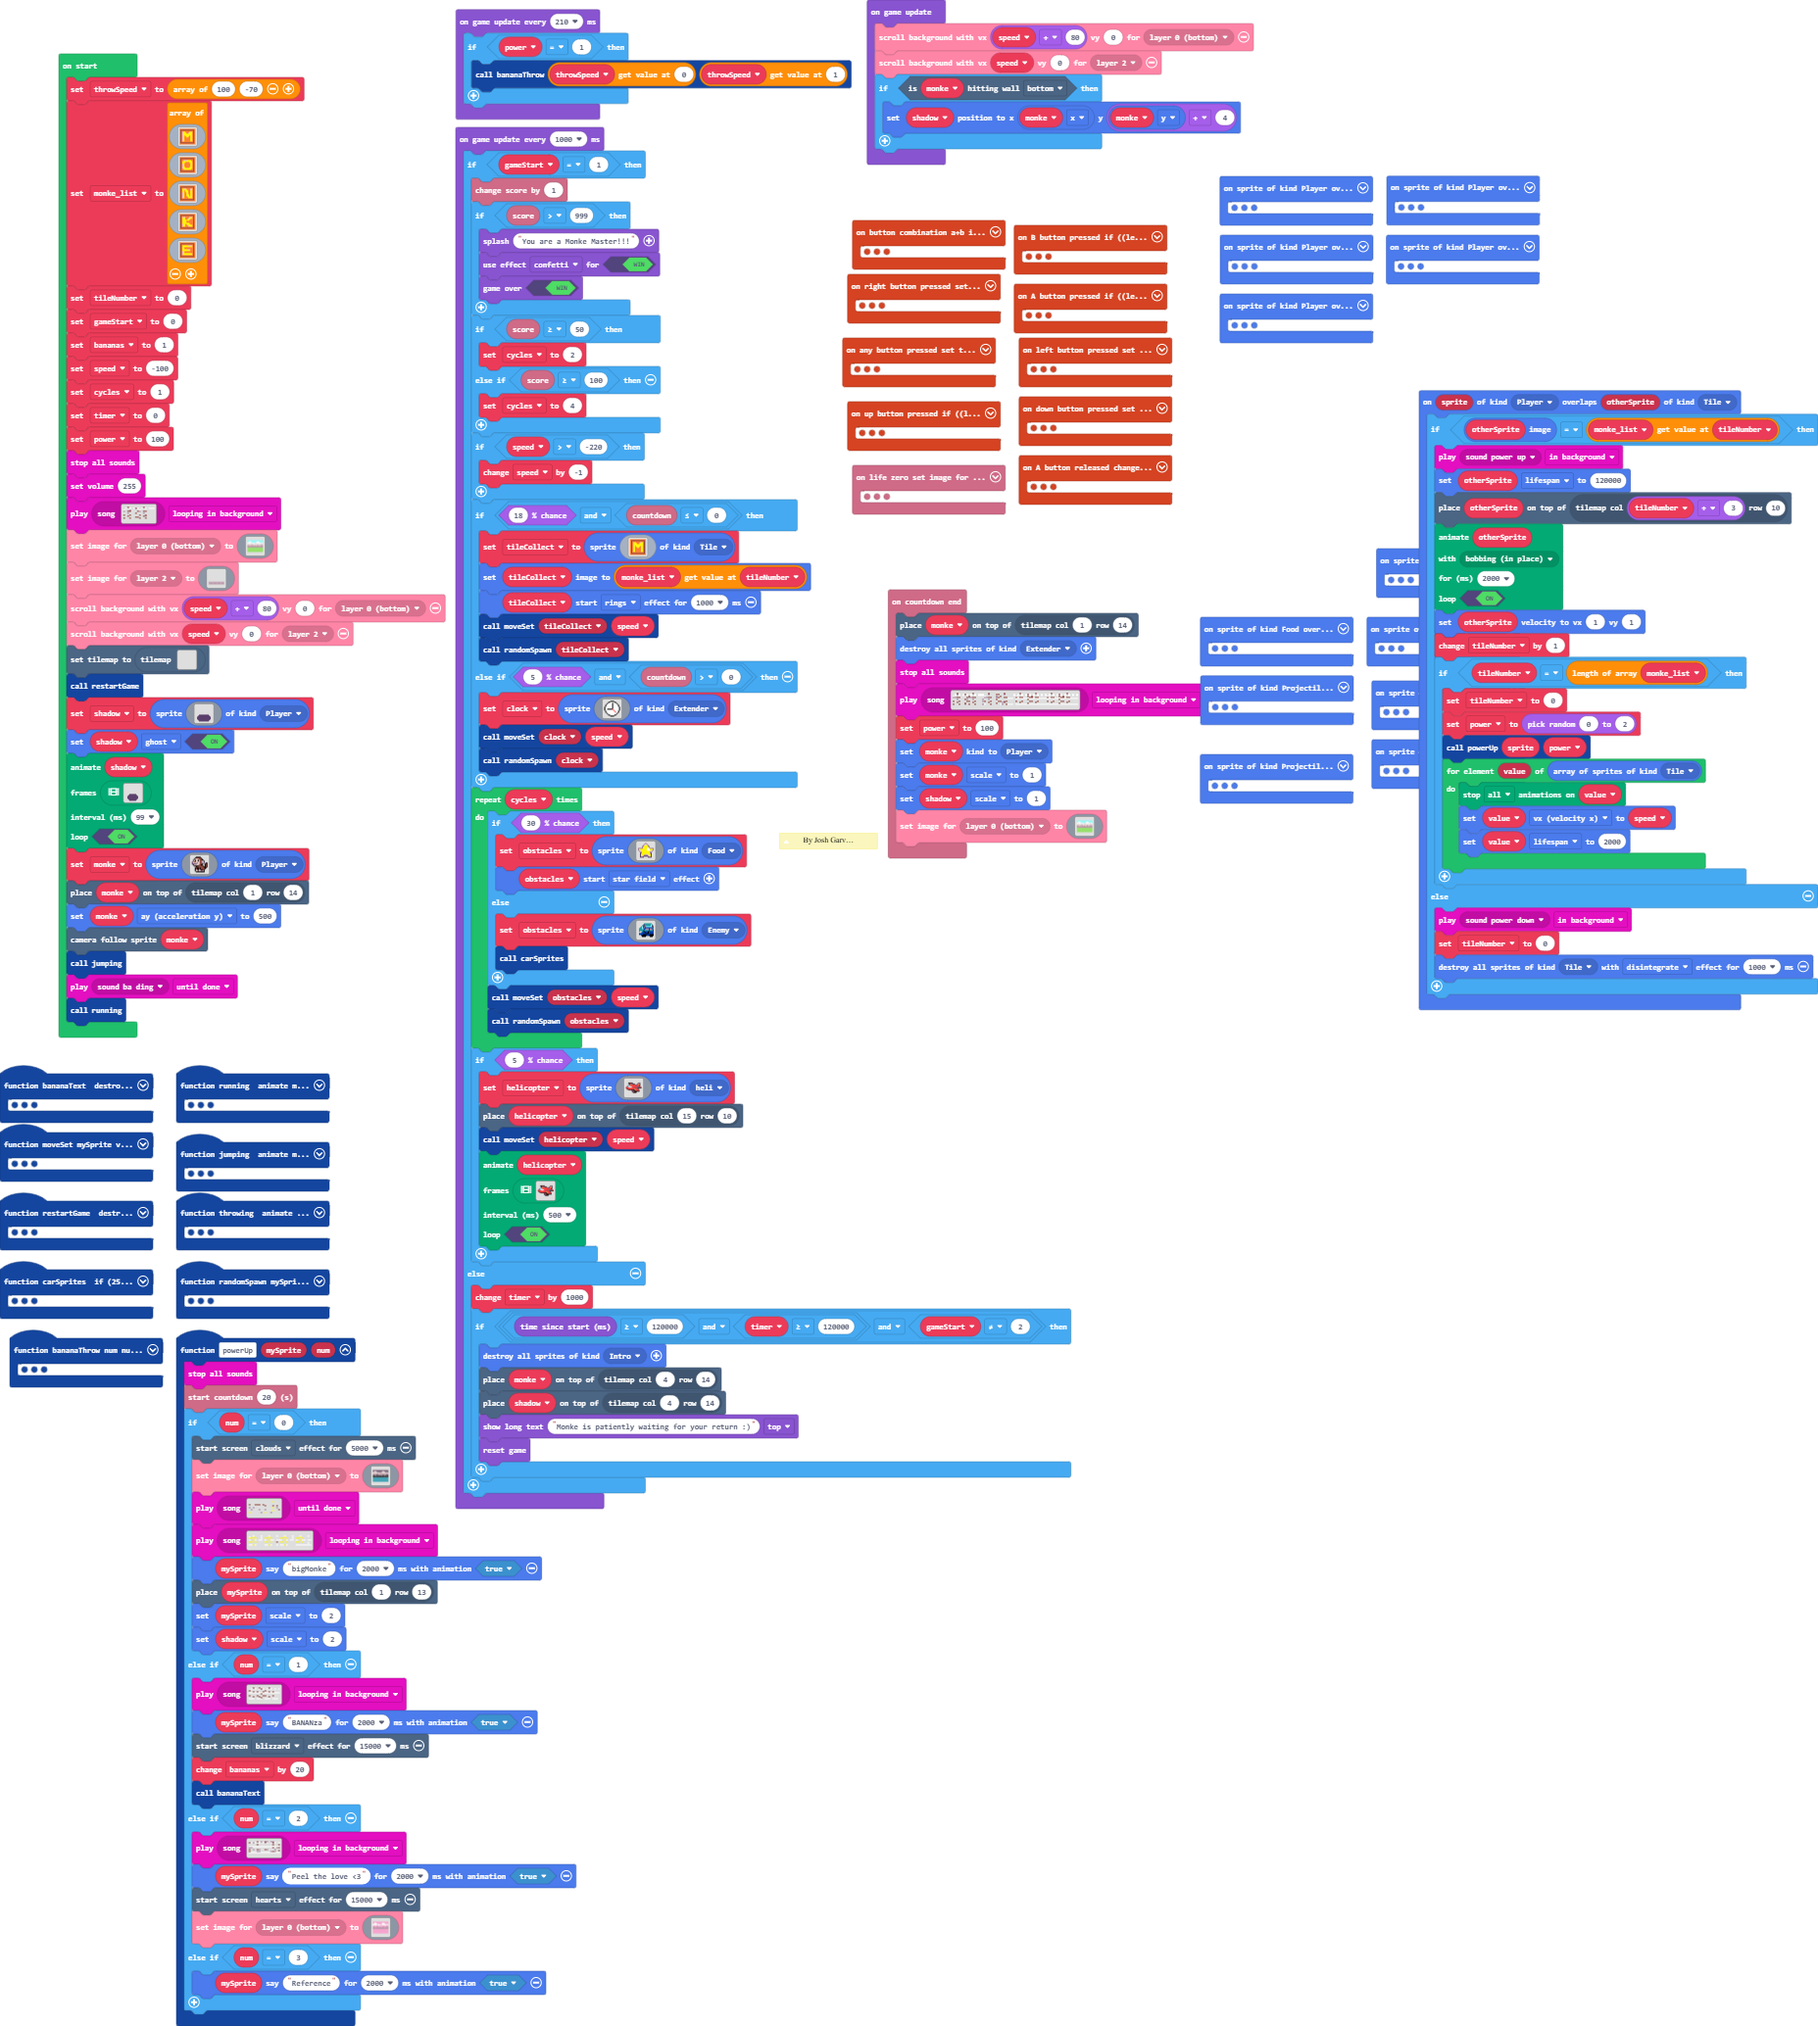
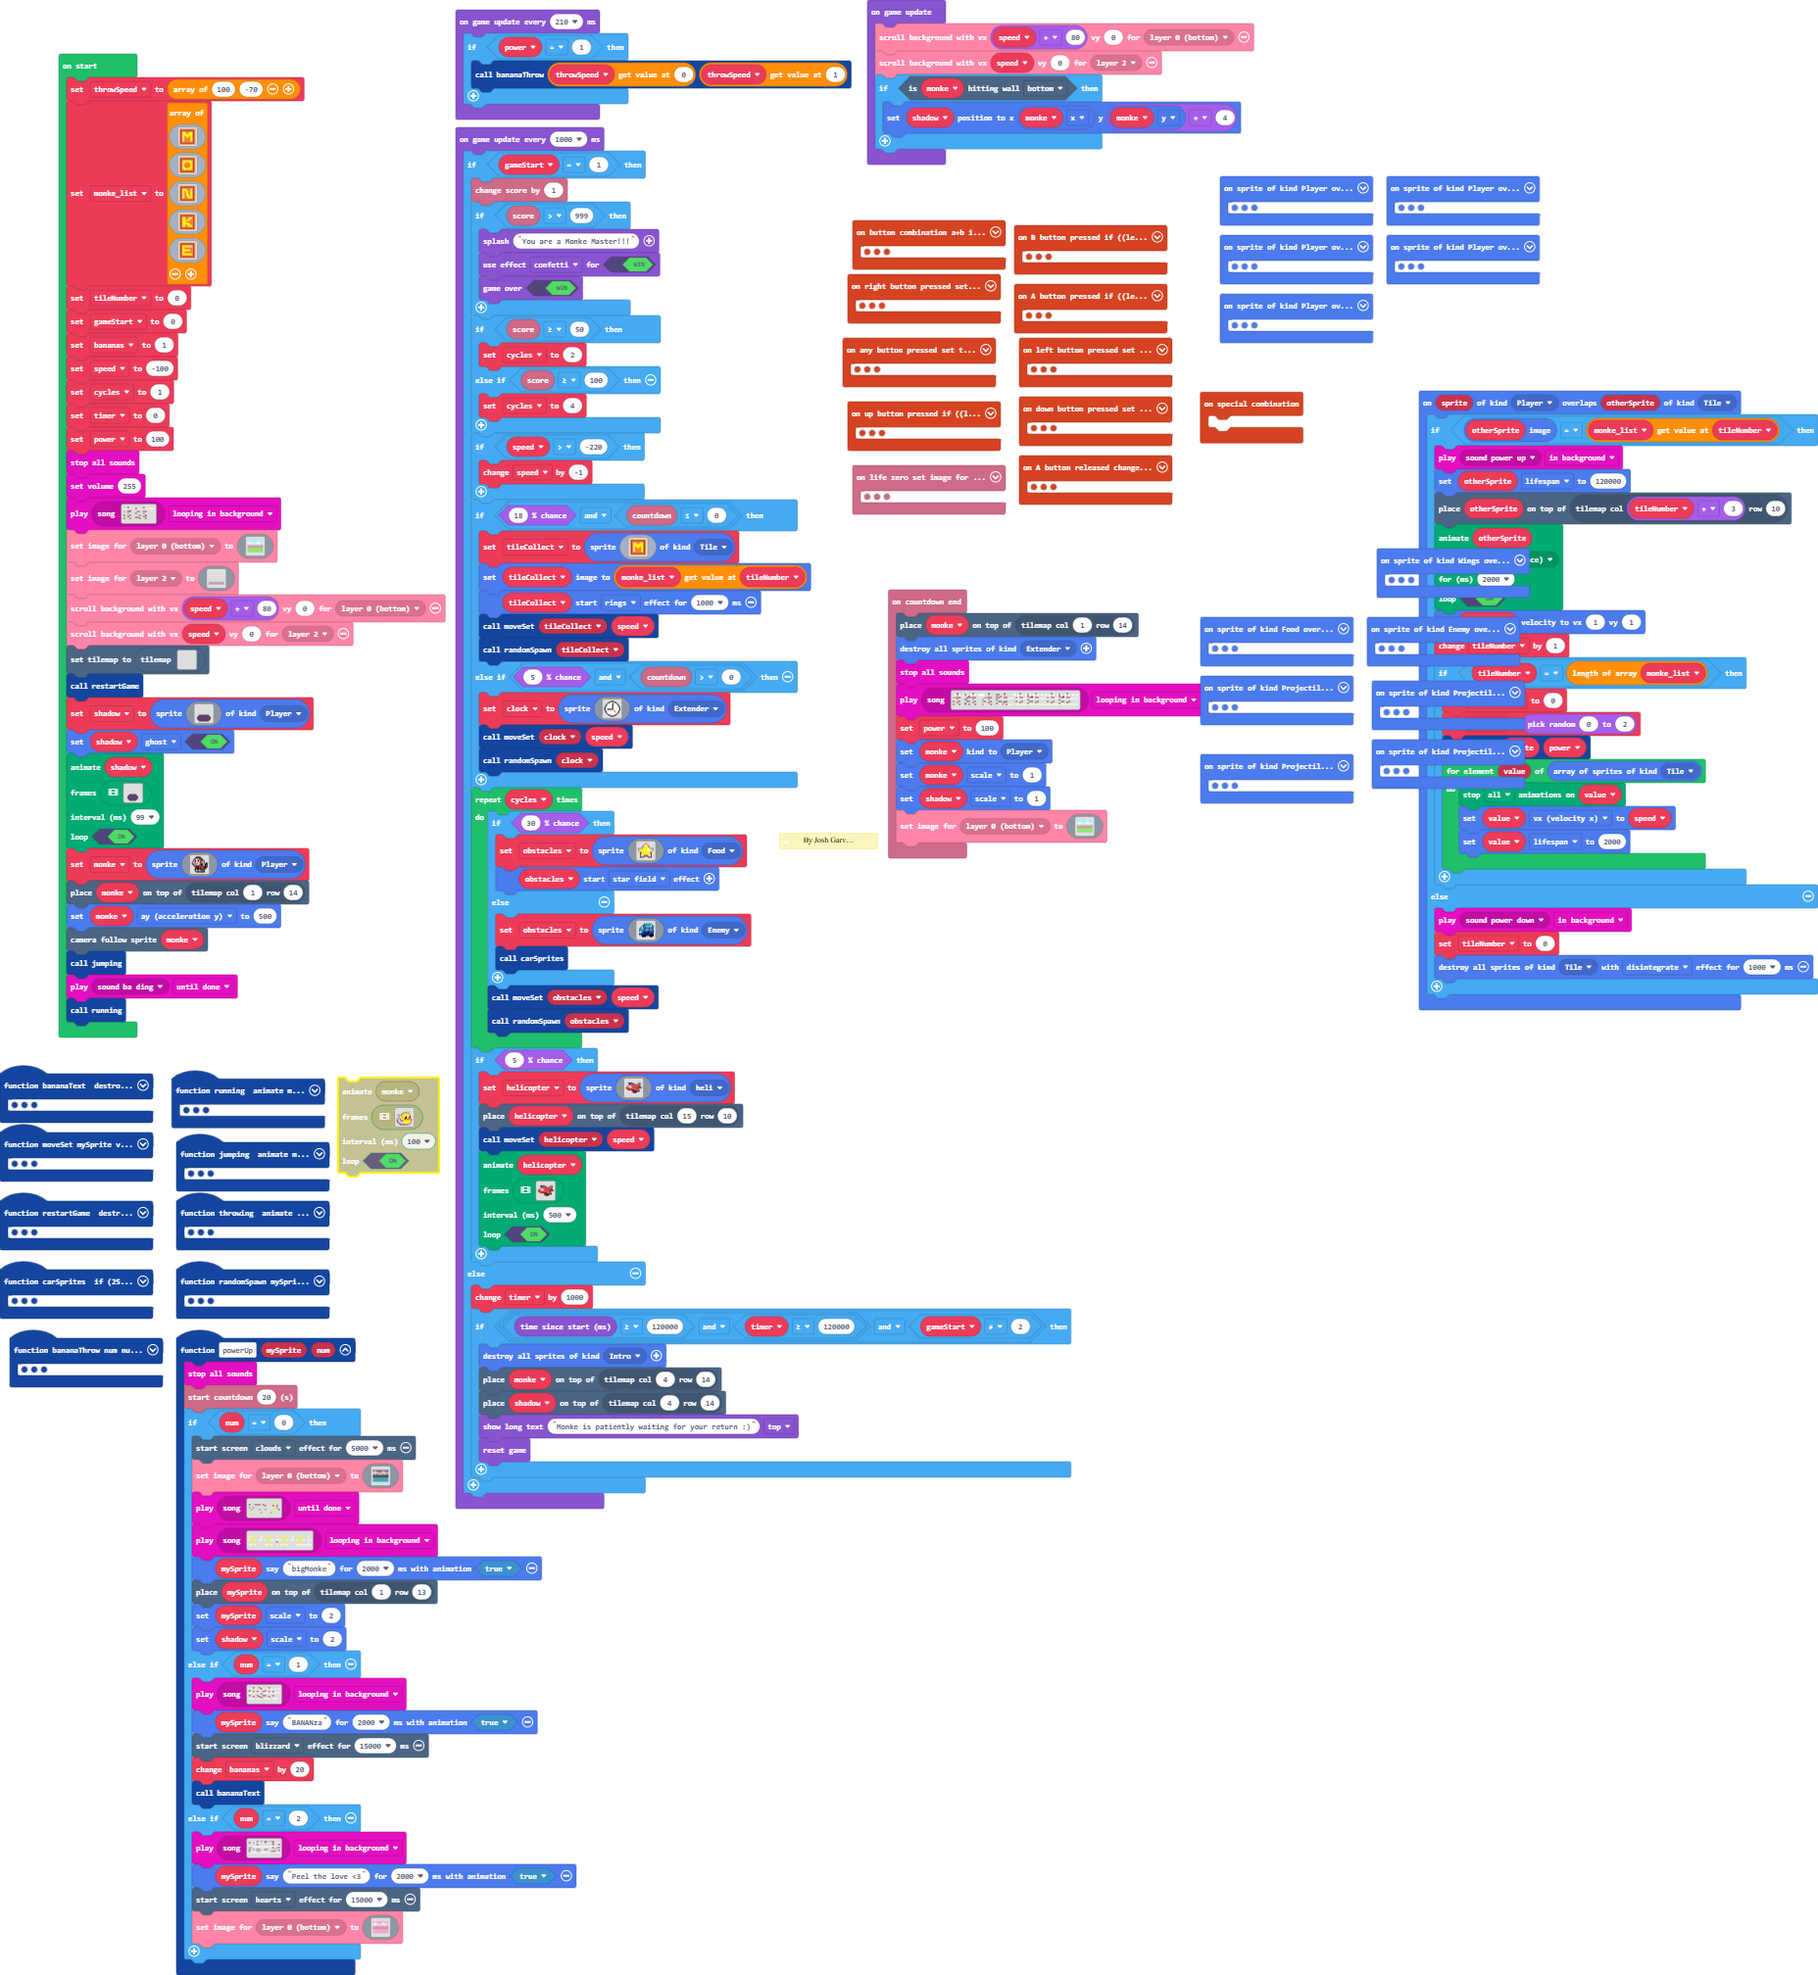
secret character

Changed region(s): [[0.0, 0.0, 1.0, 1.0]]

diff --git a/main.ts b/main.ts
@@ -1173,8 +1173,6 @@ function powerUp (mySprite: Sprite, num: number) {
             3333333333333333333333333333333333333333333333333333333333333333333333333333333333333333333333333333333333333333333333333333333333333333333333333333333333333333
             3333333333333333333333333333333333333333333333333333333333333333333333333333333333333333333333333333333333333333333333333333333333333333333333333333333333333333
             `)
-    } else if (num == 3) {
-        mySprite.sayText("Reference", 2000, true)
     }
 }
 controller.right.onEvent(ControllerButtonEvent.Pressed, function () {
@@ -1926,6 +1924,9 @@ function randomSpawn (mySprite: Sprite) {
         tiles.placeOnTile(wings, tiles.getTileLocation(15, 13))
     }
 }
+controller.combos.attachSpecialCode(function () {
+	
+})
 sprites.onOverlap(SpriteKind.Projectile, SpriteKind.Enemy, function (sprite, otherSprite) {
     sprites.destroy(sprite)
     if (power2 == 2) {
